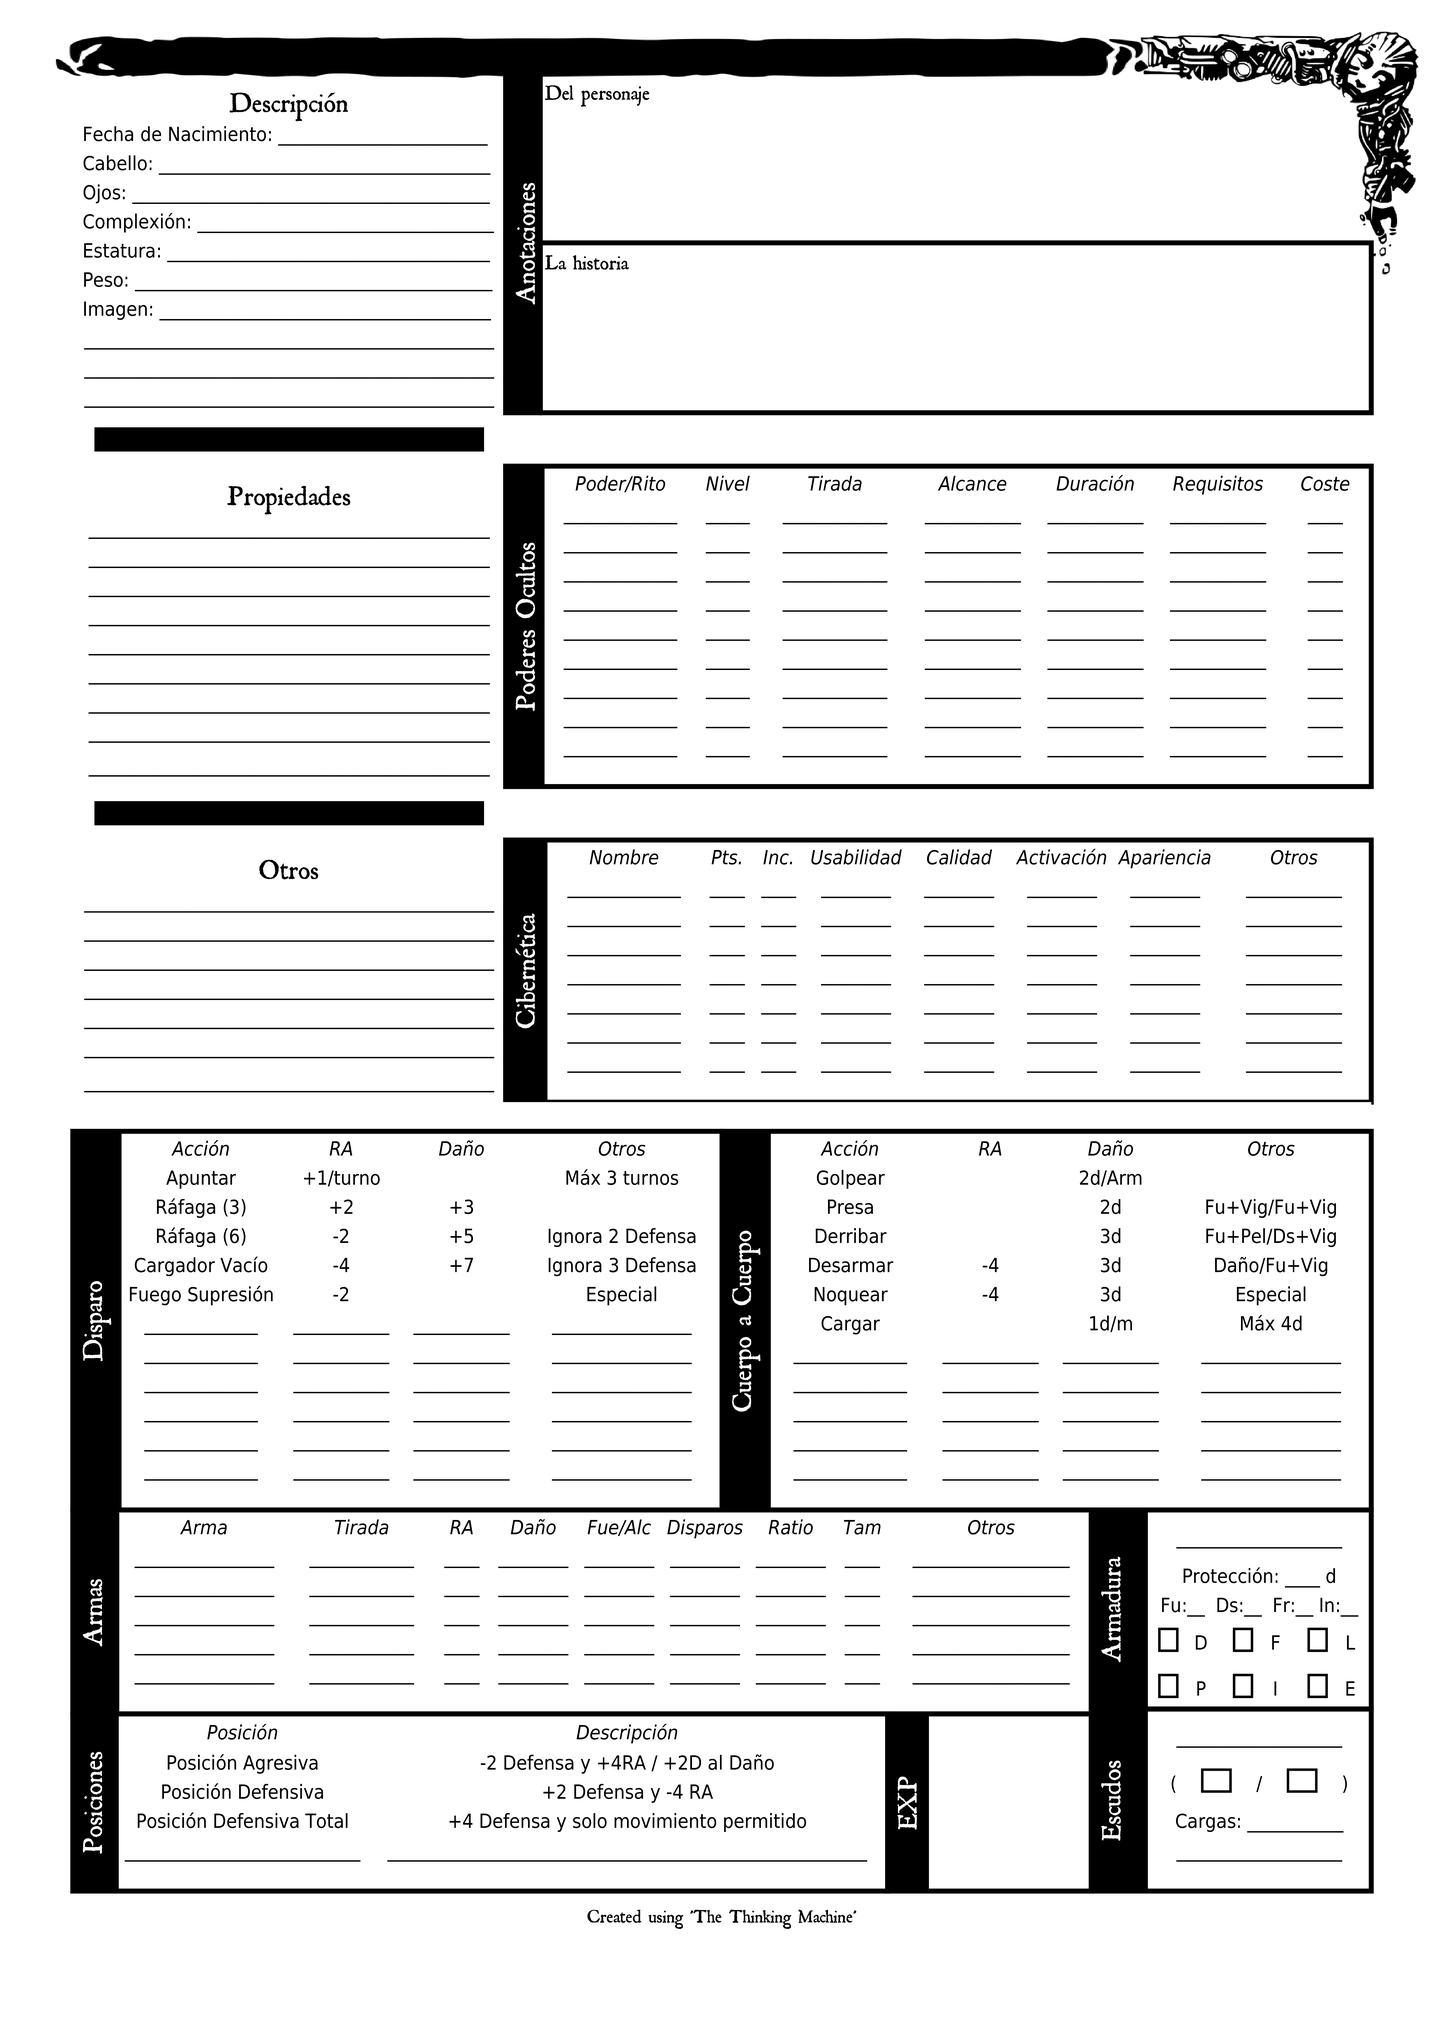
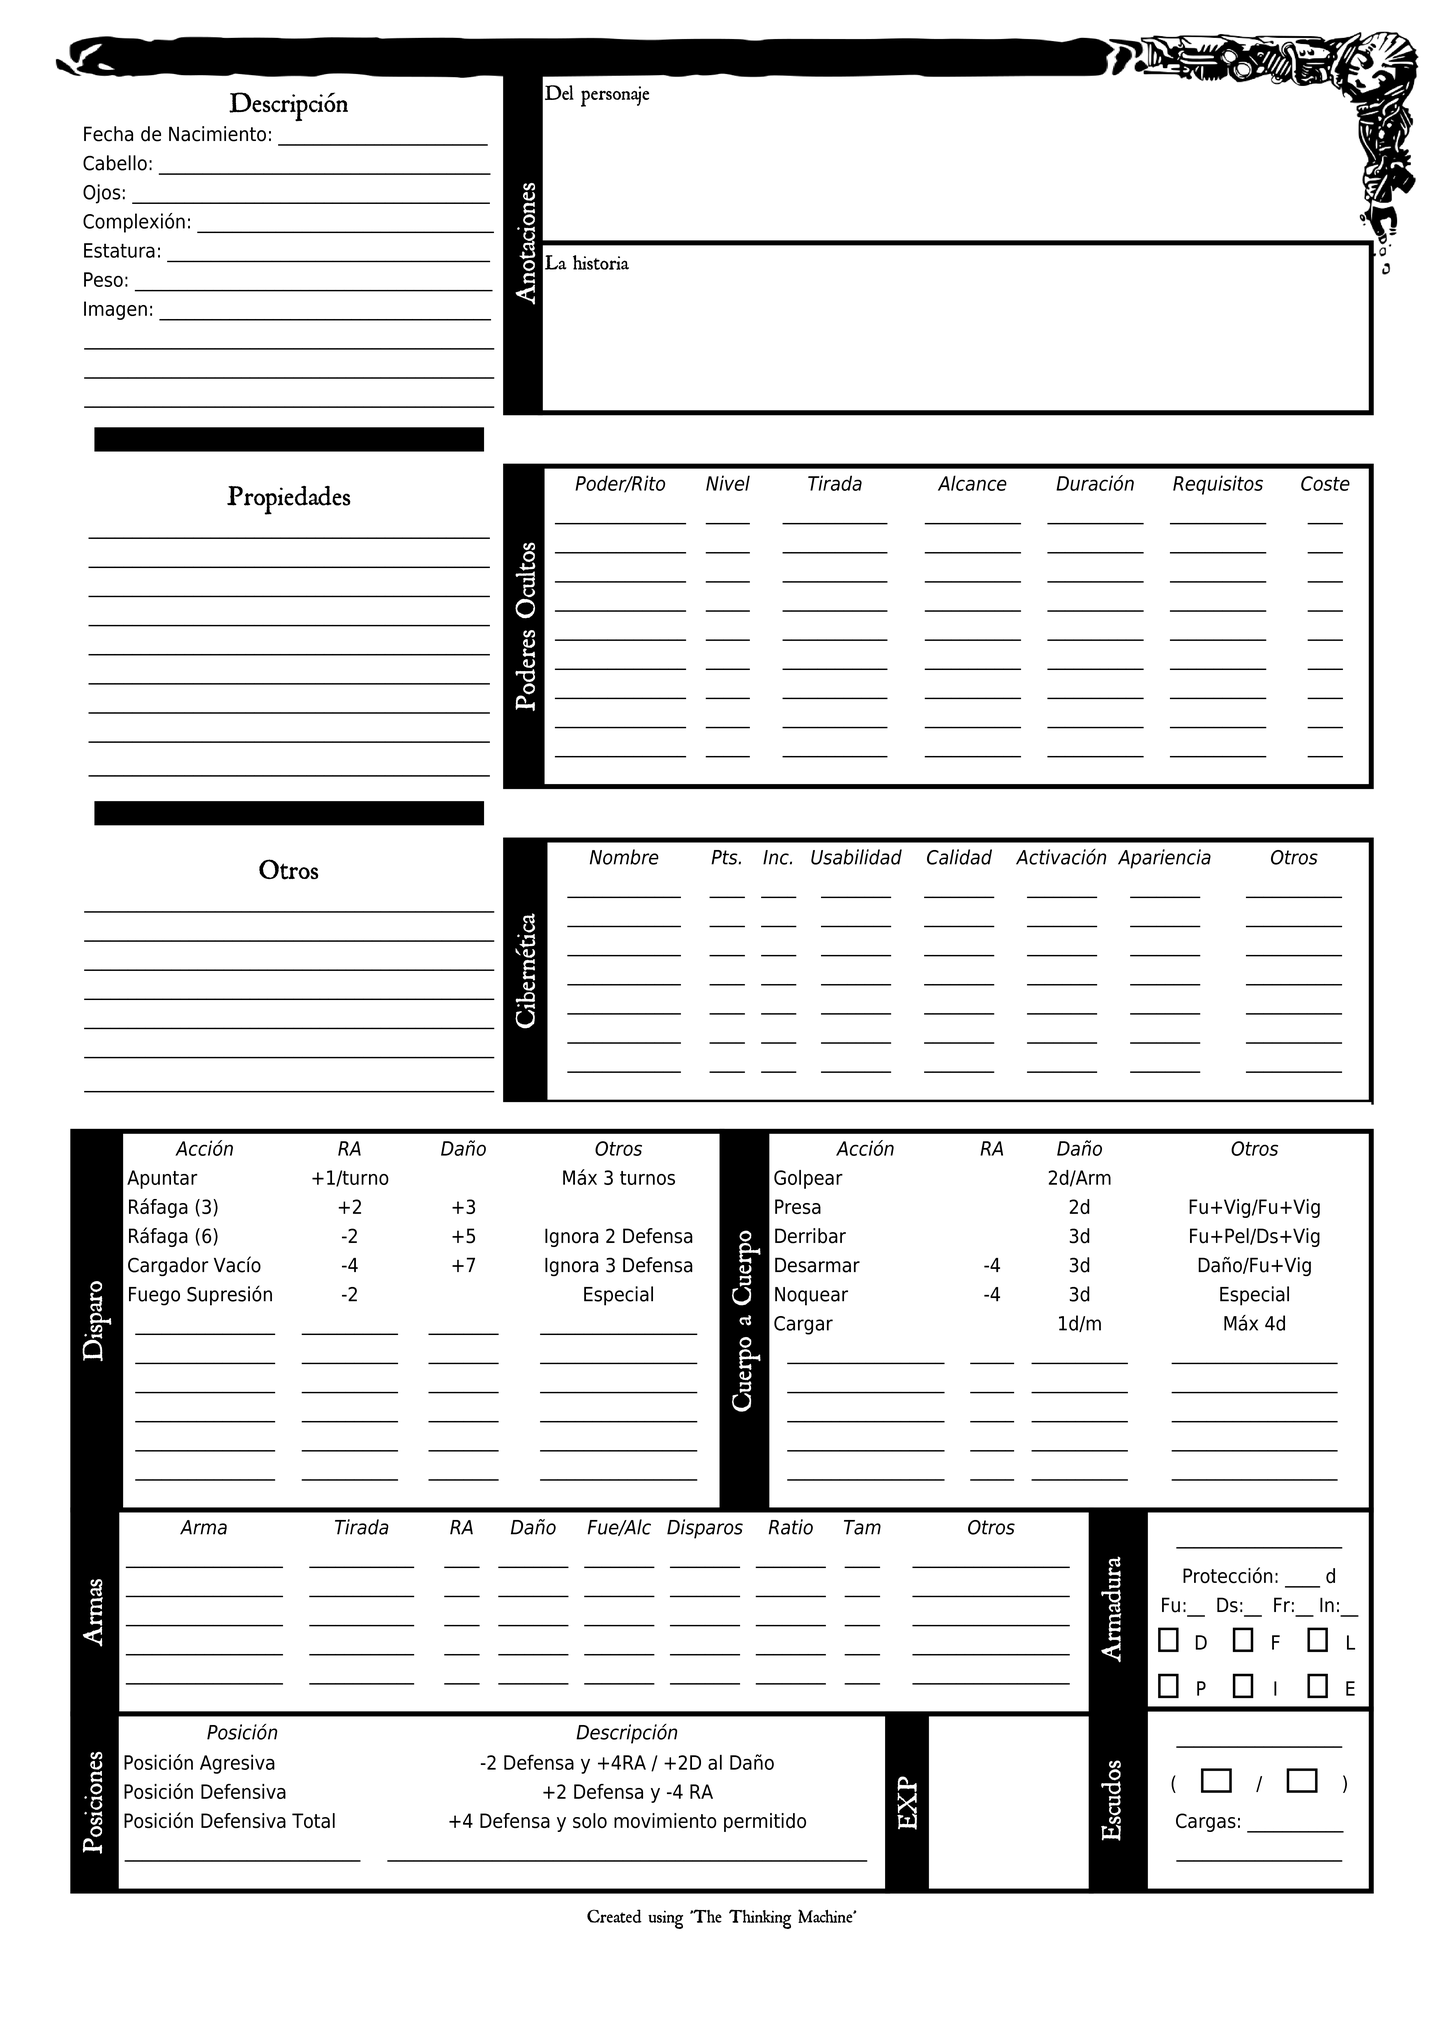
Changed alignment

diff --git a/thinking-machine-core/src/main/java/com/softwaremagico/tm/pdf/complete/fighting/MeleeWeaponsTable.java b/thinking-machine-core/src/main/java/com/softwaremagico/tm/pdf/complete/fighting/MeleeWeaponsTable.java
@@ -31,13 +31,13 @@ import com.softwaremagico.tm.pdf.complete.FadingSunsTheme;
 import com.softwaremagico.tm.pdf.complete.elements.LateralHeaderPdfPTable;
 
 public class MeleeWeaponsTable extends LateralHeaderPdfPTable {
-	private final static float[] WIDTHS = { 1.2f, 4f, 3f, 3f, 5f };
+	private final static float[] WIDTHS = { 1.2f, 5f, 1.5f, 3f, 6f };
 	private final static int ROWS = 12;
-	private final static String GAP = "_________________";
-	private final static int NAME_COLUMN_WIDHT = 50;
-	private final static int GOAL_COLUMN_WIDHT = 40;
+	private final static String GAP = "____________________";
+	private final static int NAME_COLUMN_WIDHT = 65;
+	private final static int GOAL_COLUMN_WIDHT = 20;
 	private final static int DAMAGE_COLUMN_WIDHT = 40;
-	private final static int OTHERS_COLUMN_WIDHT = 60;
+	private final static int OTHERS_COLUMN_WIDHT = 70;
 
 	public MeleeWeaponsTable(CharacterPlayer characterPlayer) {
 		super(WIDTHS);
@@ -47,7 +47,7 @@ public class MeleeWeaponsTable extends LateralHeaderPdfPTable {
 		addCell(createTableSubtitleElement(getTranslator().getTranslatedText("weaponDamage")));
 		addCell(createTableSubtitleElement(getTranslator().getTranslatedText("weaponsOthers")));
 
-		addCell(createEmptyElementLine(getTranslator().getTranslatedText("actionStrike")));
+		addCell(createFirstEmptyElementLine(getTranslator().getTranslatedText("actionStrike")));
 		addCell(createEmptyElementLine(""));
 		if (characterPlayer != null) {
 			addCell(createEmptyElementLine((2 + characterPlayer.getStrengthDamangeModification()) + getTranslator().getTranslatedText("diceAbbreviature") + "/"
@@ -58,7 +58,7 @@ public class MeleeWeaponsTable extends LateralHeaderPdfPTable {
 		}
 		addCell(createEmptyElementLine(""));
 
-		addCell(createEmptyElementLine(getTranslator().getTranslatedText("actionGrapple")));
+		addCell(createFirstEmptyElementLine(getTranslator().getTranslatedText("actionGrapple")));
 		addCell(createEmptyElementLine(""));
 		if (characterPlayer != null) {
 			addCell(createEmptyElementLine((2 + characterPlayer.getStrengthDamangeModification()) + getTranslator().getTranslatedText("diceAbbreviature")));
@@ -68,7 +68,7 @@ public class MeleeWeaponsTable extends LateralHeaderPdfPTable {
 		addCell(createEmptyElementLine(getTranslator().getTranslatedText("strengthAbbreviature") + "+" + getTranslator().getTranslatedText("vigorAbbreviature")
 				+ "/" + getTranslator().getTranslatedText("strengthAbbreviature") + "+" + getTranslator().getTranslatedText("vigorAbbreviature")));
 
-		addCell(createEmptyElementLine(getTranslator().getTranslatedText("actionKnockdown")));
+		addCell(createFirstEmptyElementLine(getTranslator().getTranslatedText("actionKnockdown")));
 		addCell(createEmptyElementLine(""));
 		if (characterPlayer != null) {
 			addCell(createEmptyElementLine((3 + characterPlayer.getStrengthDamangeModification()) + getTranslator().getTranslatedText("diceAbbreviature")));
@@ -78,7 +78,7 @@ public class MeleeWeaponsTable extends LateralHeaderPdfPTable {
 		addCell(createEmptyElementLine(getTranslator().getTranslatedText("strengthAbbreviature") + "+" + getTranslator().getTranslatedText("meleeAbbreviature")
 				+ "/" + getTranslator().getTranslatedText("dexterityAbbreviature") + "+" + getTranslator().getTranslatedText("vigorAbbreviature")));
 
-		addCell(createEmptyElementLine(getTranslator().getTranslatedText("actionDisarm")));
+		addCell(createFirstEmptyElementLine(getTranslator().getTranslatedText("actionDisarm")));
 		addCell(createEmptyElementLine("-4"));
 		if (characterPlayer != null) {
 			addCell(createEmptyElementLine((2 + characterPlayer.getStrengthDamangeModification()) + getTranslator().getTranslatedText("diceAbbreviature") + "/"
@@ -89,7 +89,7 @@ public class MeleeWeaponsTable extends LateralHeaderPdfPTable {
 		addCell(createEmptyElementLine(getTranslator().getTranslatedText("weaponDamage") + "/" + getTranslator().getTranslatedText("strengthAbbreviature")
 				+ "+" + getTranslator().getTranslatedText("vigorAbbreviature")));
 
-		addCell(createEmptyElementLine(getTranslator().getTranslatedText("actionKnockout")));
+		addCell(createFirstEmptyElementLine(getTranslator().getTranslatedText("actionKnockout")));
 		addCell(createEmptyElementLine("-4"));
 		if (characterPlayer != null) {
 			addCell(createEmptyElementLine((2 + characterPlayer.getStrengthDamangeModification()) + getTranslator().getTranslatedText("diceAbbreviature") + "/"
@@ -99,7 +99,7 @@ public class MeleeWeaponsTable extends LateralHeaderPdfPTable {
 		}
 		addCell(createEmptyElementLine(getTranslator().getTranslatedText("weaponSpecial")));
 
-		addCell(createEmptyElementLine(getTranslator().getTranslatedText("actionCharge")));
+		addCell(createFirstEmptyElementLine(getTranslator().getTranslatedText("actionCharge")));
 		addCell(createEmptyElementLine(""));
 		if (characterPlayer != null) {
 			addCell(createEmptyElementLine((1 + characterPlayer.getStrengthDamangeModification()) + getTranslator().getTranslatedText("diceAbbreviature") + "/"
@@ -114,7 +114,7 @@ public class MeleeWeaponsTable extends LateralHeaderPdfPTable {
 		if (characterPlayer != null) {
 			for (CombatStyle style : characterPlayer.getMeleeCombatStyles()) {
 				for (CombatAction action : style.getElements()) {
-					addCell(createElementLine(action.getName(), NAME_COLUMN_WIDHT, FadingSunsTheme.COMBAT_ACTIONS_CONTENT_FONT_SIZE));
+					addCell(createFirstElementLine(action.getName(), NAME_COLUMN_WIDHT, FadingSunsTheme.COMBAT_ACTIONS_CONTENT_FONT_SIZE));
 					addCell(createElementLine(action.getGoal(), GOAL_COLUMN_WIDHT, FadingSunsTheme.COMBAT_ACTIONS_CONTENT_FONT_SIZE));
 					addCell(createElementLine(action.getDamage(), DAMAGE_COLUMN_WIDHT, FadingSunsTheme.COMBAT_ACTIONS_CONTENT_FONT_SIZE));
 					addCell(createElementLine(action.getOthers(), OTHERS_COLUMN_WIDHT, FadingSunsTheme.COMBAT_ACTIONS_CONTENT_FONT_SIZE));

diff --git a/thinking-machine-core/src/main/java/com/softwaremagico/tm/pdf/complete/fighting/RangedWeaponsTable.java b/thinking-machine-core/src/main/java/com/softwaremagico/tm/pdf/complete/fighting/RangedWeaponsTable.java
@@ -31,13 +31,13 @@ import com.softwaremagico.tm.pdf.complete.FadingSunsTheme;
 import com.softwaremagico.tm.pdf.complete.elements.LateralHeaderPdfPTable;
 
 public class RangedWeaponsTable extends LateralHeaderPdfPTable {
-	private final static float[] WIDTHS = { 1.2f, 4f, 3f, 3f, 5f };
+	private final static float[] WIDTHS = { 1.2f, 4f, 3f, 2.5f, 5f };
 	private final static int ROWS = 12;
-	private final static String GAP = "_________________";
-	private final static int NAME_COLUMN_WIDHT = 50;
+	private final static String GAP = "____________________";
+	private final static int NAME_COLUMN_WIDHT = 60;
 	private final static int GOAL_COLUMN_WIDHT = 40;
-	private final static int DAMAGE_COLUMN_WIDHT = 40;
-	private final static int OTHERS_COLUMN_WIDHT = 60;
+	private final static int DAMAGE_COLUMN_WIDHT = 30;
+	private final static int OTHERS_COLUMN_WIDHT = 65;
 
 	public RangedWeaponsTable(CharacterPlayer characterPlayer) {
 		super(WIDTHS);
@@ -47,33 +47,27 @@ public class RangedWeaponsTable extends LateralHeaderPdfPTable {
 		addCell(createTableSubtitleElement(getTranslator().getTranslatedText("weaponDamage")));
 		addCell(createTableSubtitleElement(getTranslator().getTranslatedText("weaponsOthers")));
 
-		addCell(createEmptyElementLine(getTranslator().getTranslatedText("aimAction")));
+		addCell(createFirstEmptyElementLine(getTranslator().getTranslatedText("aimAction")));
 		addCell(createEmptyElementLine("+1/" + getTranslator().getTranslatedText("roundAbbreviature")));
 		addCell(createEmptyElementLine(""));
 		addCell(createEmptyElementLine(getTranslator().getTranslatedText("aimEffect")));
 
-		// addCell(createElementLine("Barrido"));
-		// addCell(createElementLine("-1/" +
-		// getTranslator().getTranslatedText("meterAbbreviature")));
-		// addCell(createElementLine("+1"));
-		// addCell(createElementLine(""));
-
-		addCell(createEmptyElementLine(getTranslator().getTranslatedText("burstAction") + " (3)"));
+		addCell(createFirstEmptyElementLine(getTranslator().getTranslatedText("burstAction") + " (3)"));
 		addCell(createEmptyElementLine("+2"));
 		addCell(createEmptyElementLine("+3"));
 		addCell(createEmptyElementLine(""));
 
-		addCell(createEmptyElementLine(getTranslator().getTranslatedText("burstAction") + " (6)"));
+		addCell(createFirstEmptyElementLine(getTranslator().getTranslatedText("burstAction") + " (6)"));
 		addCell(createEmptyElementLine("-2"));
 		addCell(createEmptyElementLine("+5"));
 		addCell(createEmptyElementLine(getTranslator().getTranslatedText("burst6Effect")));
 
-		addCell(createEmptyElementLine(getTranslator().getTranslatedText("emptyClipAction")));
+		addCell(createFirstEmptyElementLine(getTranslator().getTranslatedText("emptyClipAction")));
 		addCell(createEmptyElementLine("-4"));
 		addCell(createEmptyElementLine("+7"));
 		addCell(createEmptyElementLine(getTranslator().getTranslatedText("emptyClipEffect")));
 
-		addCell(createEmptyElementLine(getTranslator().getTranslatedText("supressingFireAction")));
+		addCell(createFirstEmptyElementLine(getTranslator().getTranslatedText("supressingFireAction")));
 		addCell(createEmptyElementLine("-2"));
 		addCell(createEmptyElementLine("  "));
 		addCell(createEmptyElementLine(getTranslator().getTranslatedText("weaponSpecial")));
@@ -82,7 +76,7 @@ public class RangedWeaponsTable extends LateralHeaderPdfPTable {
 		if (characterPlayer != null) {
 			for (CombatStyle style : characterPlayer.getRangedCombatStyles()) {
 				for (CombatAction action : style.getElements()) {
-					addCell(createElementLine(action.getName(), NAME_COLUMN_WIDHT, FadingSunsTheme.COMBAT_ACTIONS_CONTENT_FONT_SIZE));
+					addCell(createFirstElementLine(action.getName(), NAME_COLUMN_WIDHT, FadingSunsTheme.COMBAT_ACTIONS_CONTENT_FONT_SIZE));
 					addCell(createElementLine(action.getGoal(), GOAL_COLUMN_WIDHT, FadingSunsTheme.COMBAT_ACTIONS_CONTENT_FONT_SIZE));
 					addCell(createElementLine(action.getDamage(), DAMAGE_COLUMN_WIDHT, FadingSunsTheme.COMBAT_ACTIONS_CONTENT_FONT_SIZE));
 					addCell(createElementLine(action.getOthers(), OTHERS_COLUMN_WIDHT, FadingSunsTheme.COMBAT_ACTIONS_CONTENT_FONT_SIZE));

diff --git a/thinking-machine-core/src/main/java/com/softwaremagico/tm/pdf/complete/fighting/StancesTable.java b/thinking-machine-core/src/main/java/com/softwaremagico/tm/pdf/complete/fighting/StancesTable.java
@@ -28,7 +28,6 @@ import com.softwaremagico.tm.character.CharacterPlayer;
 import com.softwaremagico.tm.character.combat.LearnedStance;
 import com.softwaremagico.tm.pdf.complete.FadingSunsTheme;
 import com.softwaremagico.tm.pdf.complete.elements.LateralHeaderPdfPTable;
-import com.softwaremagico.tm.pdf.complete.utils.CellUtils;
 
 public class StancesTable extends LateralHeaderPdfPTable {
 	private final static float[] WIDTHS = { 2f, 11f, 23f };
@@ -49,17 +48,17 @@ public class StancesTable extends LateralHeaderPdfPTable {
 		addCell(createTableSubtitleElement(
 				getTranslator().getTranslatedText("stanceDescription"), 13));
 
-		addCell(createEmptyElementLine(getTranslator().getTranslatedText(
+		addCell(createFirstEmptyElementLine(getTranslator().getTranslatedText(
 				"agressiveStance")));
 		addCell(createEmptyElementLine(getTranslator().getTranslatedText(
 				"agressiveStanceDescription")));
 
-		addCell(createEmptyElementLine(getTranslator().getTranslatedText(
+		addCell(createFirstEmptyElementLine(getTranslator().getTranslatedText(
 				"defensiveStance")));
 		addCell(createEmptyElementLine(getTranslator().getTranslatedText(
 				"defensiveStanceDescription")));
 
-		addCell(createEmptyElementLine(getTranslator().getTranslatedText(
+		addCell(createFirstEmptyElementLine(getTranslator().getTranslatedText(
 				"fullDefensiveStance")));
 		addCell(createEmptyElementLine(getTranslator().getTranslatedText(
 				"fullDefensiveStanceDescription")));

diff --git a/thinking-machine-core/src/main/java/com/softwaremagico/tm/pdf/complete/skills/occultism/OccultismsPowerTable.java b/thinking-machine-core/src/main/java/com/softwaremagico/tm/pdf/complete/skills/occultism/OccultismsPowerTable.java
@@ -33,7 +33,7 @@ public class OccultismsPowerTable extends LateralHeaderPdfPTable {
 	private final static float[] WIDTHS = { 1.25f, 5f, 2f, 5f, 4f, 4f, 4f, 3f };
 	private final static int ROWS = 10;
 	private final static String GAP = "__________________";
-	private final static int NAME_COLUMN_WIDTH = 50;
+	private final static int NAME_COLUMN_WIDTH = 55;
 	private final static int LEVEL_COLUMN_WIDTH = 20;
 	private final static int ROLL_COLUMN_WIDTH = 45;
 	private final static int RANGE_COLUMN_WIDTH = 40;
@@ -56,7 +56,7 @@ public class OccultismsPowerTable extends LateralHeaderPdfPTable {
 		if (characterPlayer != null) {
 			for (OccultismPower occultismPower : characterPlayer.getOccultism().getElements()) {
 				if (occultismPower.isEnabled()) {
-					addCell(createElementLine(occultismPower.getName(), NAME_COLUMN_WIDTH, FadingSunsTheme.OCCULSTISM_POWERS_CONTENT_FONT_SIZE));
+					addCell(createFirstElementLine(occultismPower.getName(), NAME_COLUMN_WIDTH, FadingSunsTheme.OCCULSTISM_POWERS_CONTENT_FONT_SIZE));
 					addCell(createElementLine(occultismPower.getLevel() + "", LEVEL_COLUMN_WIDTH, FadingSunsTheme.OCCULSTISM_POWERS_CONTENT_FONT_SIZE));
 					addCell(createElementLine(occultismPower.getRoll(), ROLL_COLUMN_WIDTH, FadingSunsTheme.OCCULSTISM_POWERS_CONTENT_FONT_SIZE));
 					addCell(createElementLine(occultismPower.getRange(), RANGE_COLUMN_WIDTH, FadingSunsTheme.OCCULSTISM_POWERS_CONTENT_FONT_SIZE));

diff --git a/thinking-machine-core/src/main/java/com/softwaremagico/tm/pdf/complete/fighting/WeaponsTable.java b/thinking-machine-core/src/main/java/com/softwaremagico/tm/pdf/complete/fighting/WeaponsTable.java
@@ -33,7 +33,7 @@ public class WeaponsTable extends LateralHeaderPdfPTable {
 	private final static float[] WIDTHS = { 1.6f, 6f, 5f, 2f, 3f, 3f, 3f, 3f, 2f, 7f };
 	private final static int ROWS = 6;
 	private final static String GAP = "__________________";
-	private final static int NAME_COLUMN_WIDTH = 60;
+	private final static int NAME_COLUMN_WIDTH = 65;
 	private final static int ROLL_COLUMN_WIDTH = 45;
 	private final static int GOAL_COLUMN_WIDTH = 15;
 	private final static int DAMAGE_COLUMN_WIDTH = 30;
@@ -59,7 +59,7 @@ public class WeaponsTable extends LateralHeaderPdfPTable {
 		int addedWeapons = 0;
 		if (characterPlayer != null) {
 			for (Weapon weapon : characterPlayer.getWeapons().getElements()) {
-				addCell(createElementLine(weapon.getName(), NAME_COLUMN_WIDTH,
+				addCell(createFirstElementLine(weapon.getName(), NAME_COLUMN_WIDTH,
 						FadingSunsTheme.WEAPONS_CONTENT_FONT_SIZE));
 				addCell(createElementLine(weapon.getRoll(), ROLL_COLUMN_WIDTH,
 						FadingSunsTheme.WEAPONS_CONTENT_FONT_SIZE));

diff --git a/thinking-machine-core/src/test/java/com/softwaremagico/tm/export/pdf/CustomCharacters.java b/thinking-machine-core/src/test/java/com/softwaremagico/tm/export/pdf/CustomCharacters.java
@@ -244,11 +244,11 @@ public class CustomCharacters {
 
 		CombatStyle fightStyle = new CombatStyle("Talón de Acero");
 		fightStyle.addElement(new CombatAction("Cadena de Destrucción", null, "3d", "Presa Especial"));
-		fightStyle.addElement(new CombatAction("Cabezado", 2, "4d", "Ignora armadura*"));
+		fightStyle.addElement(new CombatAction("Cabezazo", 2, "4d", "Ignora armadura*"));
 		player.getMeleeCombatStyles().add(fightStyle);
 
 		player.getWeapons().addElement(new Weapon("Escopeta", "Ds+Arma Fuego", 0, 7, "30/80", 7, "2", 3, Size.L, null));
-		player.getWeapons().addElement(new Weapon("Pistola Auto.", "Ds+Arma Fuego", 0, 5, "20/30", 10, "3", 4, Size.S, null));
+		player.getWeapons().addElement(new Weapon("Pistola Automática", "Ds+Arma Fuego", 0, 5, "20/30", 10, "3", 4, Size.S, null));
 
 		LanguagePool.clearCache();
 		CharacterSheet sheet = new CharacterSheet(player);

diff --git a/thinking-machine-core/src/main/java/com/softwaremagico/tm/pdf/complete/elements/CustomPdfTable.java b/thinking-machine-core/src/main/java/com/softwaremagico/tm/pdf/complete/elements/CustomPdfTable.java
@@ -62,6 +62,10 @@ public abstract class CustomPdfTable extends PdfPTable {
 		return titleCell;
 	}
 
+	protected static PdfPCell createFirstEmptyElementLine(String text) {
+		return createEmptyElementLine(Element.ALIGN_LEFT, text);
+	}
+
 	protected static PdfPCell createEmptyElementLine(String text) {
 		return createEmptyElementLine(Element.ALIGN_CENTER, text);
 	}
